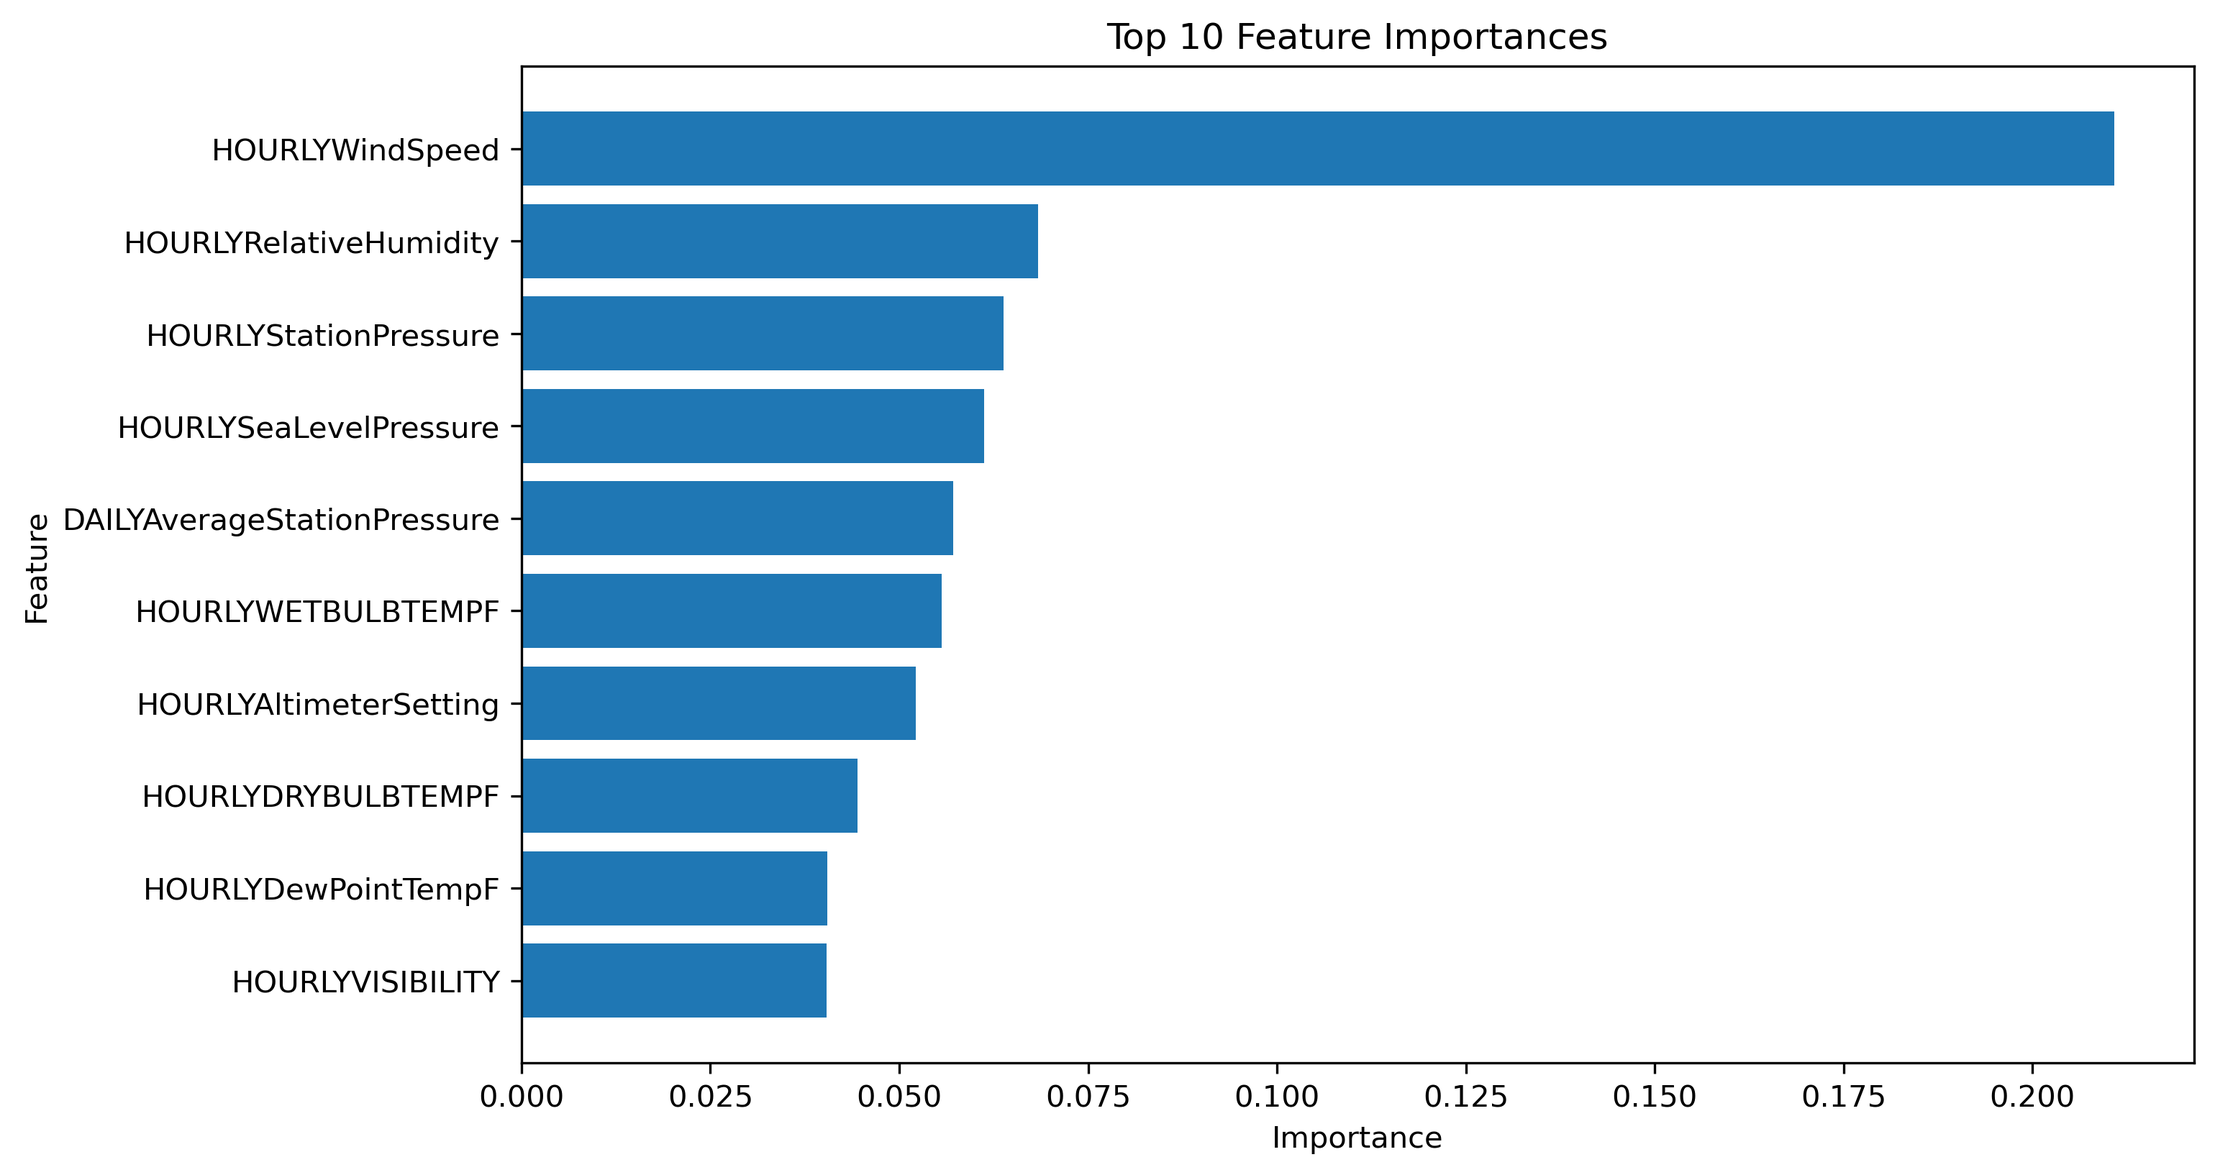
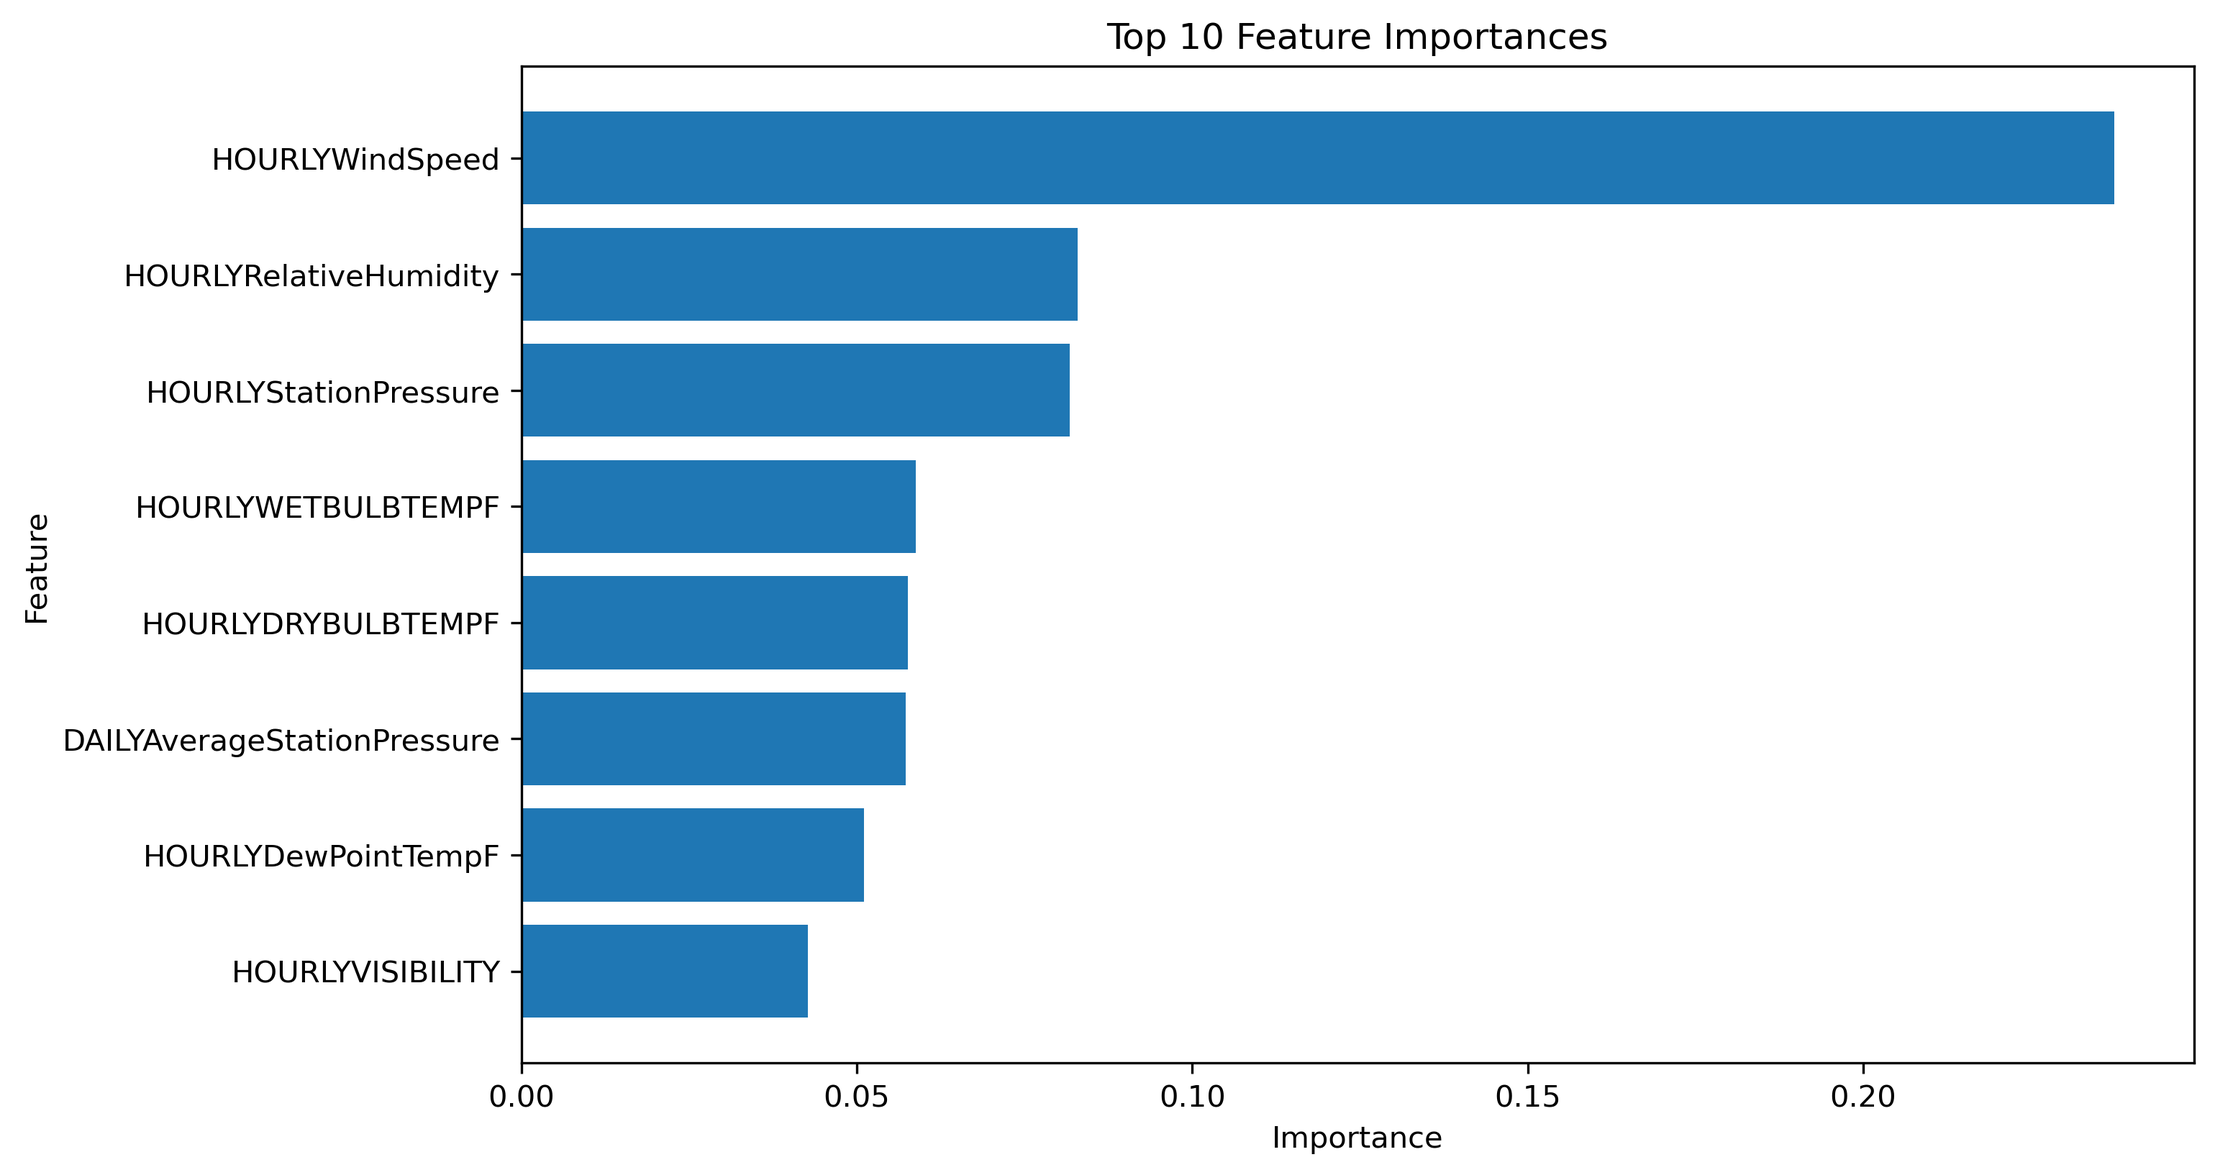
ML and App updates

diff --git a/3_Machine_Learning/1_regression_model.py b/3_Machine_Learning/1_regression_model.py
@@ -16,6 +16,9 @@ import matplotlib.pyplot as plt
 from math import sqrt
 import os
 import s3fs
+import joblib
+
+
 
 
 
@@ -68,7 +71,7 @@ file_path = 'Avions-Retard-et-Meteo/1_Data_cleaning/plane_weather_for_ML.csv'
 df = pd.read_csv(file_path)"""
 
 # Select features and target
-exclude_columns = ['DEP_DELAY', 'ARR_DELAY', 'CARRIER_DELAY', 'WEATHER_DELAY', 'CANCELLED'] # We can't use these variables in our model because they depend on whether or not the plane has been late or not
+exclude_columns = ['DEP_DELAY', 'ARR_DELAY', 'CARRIER_DELAY', 'WEATHER_DELAY', 'CANCELLED', 'HOURLYSeaLevelPressure', 'HOURLYAltimeterSetting']  # We can't use these variables in our model because they depend on whether or not the plane has been late or not, and we saw in the descriptive stats that the pressure at the station and at the sea level and the altimeter setting are really correlated
 feature_columns = [col for col in df.columns if col not in exclude_columns]
 target_column = 'DEP_DELAY' # The variable we want to predict
 
@@ -96,7 +99,7 @@ print(f"Numbre of principle components : {X_pca.shape[1]}")
 
 
 # Linear Regression
-lin_reg = LinearRegression()
+lin_reg = LinearRegression(fit_intercept=True)
 y_pred_lin = cross_val_predict(lin_reg, X_pca, y, cv=5)  # 5-fold cross-validation
 
 # Random Forest
@@ -143,8 +146,8 @@ feature_importance_df = pd.DataFrame({
     'Importance': importances
 }).sort_values(by='Importance', ascending=False)
 
-# Then we select the most important features (example here the 10 most)
-top_features = feature_importance_df.head(10)['Feature']
+# Then we select the most important features (example here the 8 most)
+top_features = feature_importance_df.head(8)['Feature']
 X_selected = X[top_features]
 
 
@@ -152,7 +155,7 @@ X_selected = X[top_features]
 output_dir = 'Avions-Retard-et-Meteo/3_Machine_Learning/pictures'
 os.makedirs(output_dir, exist_ok=True)
 plt.figure(figsize=(10, 6))
-plt.barh(feature_importance_df['Feature'].head(10), feature_importance_df['Importance'].head(10))
+plt.barh(feature_importance_df['Feature'].head(8), feature_importance_df['Importance'].head(8))
 plt.xlabel("Importance")
 plt.ylabel("Feature")
 plt.title("Top 10 Feature Importances")
@@ -204,16 +207,24 @@ results_df_FI = pd.DataFrame(results)
 print("\nComparison of Model Performance (Feature Importance):")
 print(results_df_FI)
 
-# Linear Regression performs better with Feature Importance (MAE: 26.72 vs 34.95, RMSE: 74.06 vs 81.80, R^2: 0.006 vs -0.212)
-# Random Forest improves slightly with Feature Importance (MAE: 30.49 vs 40.73, RMSE: 85.26 vs 90.50, R^2: -0.317 vs -0.484)
-# XGBoost shows better results with Feature Importance but still underperforms (MAE: 33.35 vs 55.20, RMSE: 94.35 vs 136.75, R^2: -0.613 vs -2.387)
-# Feature Importance provides more relevant features for all models compared to PCA
+"""
+Linear Regression performs better with Feature Importance (MAE: 26.28 vs 34.90, RMSE: 74.72 vs 81.80, R^2: -0.011 vs -0.212)
+Random Forest improves slightly with Feature Importance (MAE: 31.65 vs 52.45, RMSE: 88.32 vs 106.15, R^2: -0.413 vs -1.041)
+XGBoost shows better results with Feature Importance but still underperforms (MAE: 32.88 vs 91.04, RMSE: 92.90 vs 211.86, R^2: -0.563 vs -7.131)
+Feature Importance provides more relevant features for all models compared to PCA.
 
 
-# Using Feature Importance, model performance remains limited, with all models showing weak predictive power.
-# Linear Regression has a modest MAE (26.72) and RMSE (74.06) but offers almost no explanatory strength (R^2: 0.006).
-# Random Forest improves slightly (MAE: 30.49, RMSE: 85.26), but its R^2 (-0.317) indicates poor generalization.
-# XGBoost, despite reducing MAE (33.35), still struggles with high RMSE (94.35) and very low R^2 (-0.613).
+Using Feature Importance, model performance remains limited, with all models showing weak predictive power.
+Linear Regression:
+With Feature Importance, Linear Regression achieves a MAE of 26.28 and an RMSE of 74.72, both better than the PCA approach (MAE: 34.90, RMSE: 81.80). However, the R² remains slightly negative (-0.011), indicating that the model explains almost none of the variance in the data. Despite this, it still provides the most coherent predictions among all tested models.
+
+Random Forest:
+Random Forest improves with Feature Importance (MAE: 31.65, RMSE: 88.32) compared to PCA (MAE: 52.45, RMSE: 106.15). However, its R² score of -0.413 suggests poor generalization. While slightly better than PCA, Random Forest predictions are less consistent compared to Linear Regression.
+
+XGBoost:
+XGBoost shows the highest error with Feature Importance (MAE: 32.88, RMSE: 92.90) and the worst R² score (-0.563). While marginally better than the PCA-based approach (MAE: 91.04, RMSE: 211.86), its performance remains weak overall.
+"""
+
 # Overall, while Feature Importance improves focus on relevant features, the results suggest that the models lack strong predictive and explanatory power.
 
 
@@ -221,14 +232,48 @@ print(results_df_FI)
 
 # The feature importance plot provides insights into the factors contributing to departure delays.
 # HOURLYWindSpeed stands out as the most important feature, aligning with expectations since wind speed directly impacts flight schedules.
-# Other weather-related variables like HOURLYRelativeHumidity, HOURLYStationPressure, and HOURLYSeaLevelPressure also have notable contributions.
+# Other weather-related variables like HOURLYRelativeHumidity, HOURLYStationPressure also have notable contributions.
 # Interestingly, DAILYAverageStationPressure and HOURLYWETBULBTEMPF indicate that both daily and hourly weather metrics are relevant.
 # Even though our predictive power is limited, the feature importance highlights key weather variables, offering valuable insights into the relationship between weather conditions and delays.
-
 
 # The feature importance highlights key weather variables like wind speed and humidity, and the
 # minimal delays caused by weather reflect the technological advancements and robustness of modern 
 # aircraft in handling adverse conditions.
 
-# Although the explanatory power (R²) is nearly negligible, Linear Regression offers the lowest MAE and RMSE among all models. This indicates 
-# it performs slightly better in predicting departure delays, even if the predictions are not strong.
+"""
+Key Observations:
+Feature Importance provides better results across all models compared to PCA by focusing on relevant features, reducing noise, and ensuring better interpretability.
+Linear Regression, while lacking strong explanatory power (as shown by the near-zero R²), offers the lowest MAE and RMSE, making it the best choice among the tested models for this dataset.
+We are aware of the limited predictive power of our models due to the weak R² values. However, Linear Regression still generates the most coherent and realistic predictions, particularly when Feature Importance is used.
+Experimentation Process and Rationale:
+Initial Setup:
+We initially included all available variables in our models, leading to overfitting and unrealistic predictions, such as planes always being very early or significantly delayed.
+
+Feature Reduction:
+Through successive adjustments and analysis, we reduced the features to the 8 most relevant variables based on Feature Importance.
+
+Pressure Variables:
+Initially, we included both HOURLYStationPressure and HOURLYSeaLevelPressure, which were highly correlated. This caused the model to predict unrealistic results, with planes often being far ahead of schedule. Removing one of the pressure variables improved prediction consistency.
+
+Final Choice:
+Linear Regression with Feature Importance, using 8 carefully selected features, achieved the best balance between low errors (MAE and RMSE) and realistic predictions.
+
+Conclusion:
+Although the predictive power of our models remains weak due to the low R² values (indicating that the models explain little variance in departure delays), the Linear Regression model with Feature Importance provides the most consistent and interpretable predictions. This is the result of iterative experimentation and careful adjustment of features, ensuring predictions align with realistic expectations while minimizing overfitting.
+"""
+
+# Entraîner le modèle sur les données sélectionnées
+lin_reg.fit(X_selected, y)  # Ajouter cette ligne ici
+
+# Sauvegarder le modèle entraîné
+model_path = 'Avions-Retard-et-Meteo/3_Machine_Learning/linear_regression_model.pkl'
+joblib.dump(lin_reg, model_path)
+
+
+# Afficher les coefficients
+coefficients = lin_reg.coef_
+features = X_selected.columns  # Les noms des colonnes sélectionnées
+
+# Afficher les coefficients avec leurs noms
+for feature, coef in zip(features, coefficients):
+    print(f"{feature}: {coef}")

diff --git a/App/app.py b/App/app.py
@@ -1,44 +1,50 @@
 import streamlit as st
+import joblib
+import os
 from flight_api import get_flight_info
-from weather_api import fetch_weather_data  # Import de la fonction météo
+from weather_api import fetch_weather_data
 from config import API_KEY as api_key
+import pandas as pd
 
-# Entrées utilisateur
-flight_number = st.text_input("Numéro de vol (ex. DL1708):")
-flight_date = st.date_input("Date du vol:")
+# Load the linear regression model
+current_dir = os.path.dirname(os.path.abspath(__file__))  # Directory where app.py is located
+model_path = os.path.join(current_dir, "..", "3_Machine_Learning", "linear_regression_model.pkl")
+lin_reg = joblib.load(model_path)
 
-# Bouton de recherche
-search_button = st.button("Rechercher")
+# User input
+flight_number = st.text_input("Flight number (e.g., DL1708):")
+flight_date = st.date_input("Flight date:")
 
-# Si le bouton est cliqué et que les entrées sont données
+# Search button
+search_button = st.button("Search")
+
+# If the search button is clicked and inputs are provided
 if search_button and flight_number and flight_date:
-    # Récupérer les informations sur le vol
+    # Retrieve flight information
     flight_data = get_flight_info(flight_number, flight_date, api_key)
     
     if isinstance(flight_data, list) and flight_data:
         for flight in flight_data:
-            st.write(f"Vol: {flight['flight_number']}")
-            st.write(f"Statut: {flight['status']}")
-            st.write(f"Aéroport de départ: {flight['departure_airport']}")
-            st.write(f"Heure de départ: {flight['departure_time']}")
-            st.write(f"Aéroport d'arrivée: {flight['arrival_airport']}")
-            st.write(f"Heure d'arrivée: {flight['arrival_time']}")
-            st.write(f"Compagnie aérienne: {flight['airline']}")
-            st.write(f"Modèle d'avion: {flight['aircraft_model']}")
+            st.markdown(f"### {flight['airline']} {flight['flight_number']}")
+            st.write(f"**Status:** {flight['status']}")
+            st.write(f"**Departure airport:** {flight['departure_airport']}")
+            st.write(f"**Departure time:** {pd.to_datetime(flight['departure_time']).strftime('%H:%M, %A %d %B %Y')} (local time)")
+            st.write(f"**Arrival airport:** {flight['arrival_airport']}")
+            st.write(f"**Arrival time:** {pd.to_datetime(flight['arrival_time']).strftime('%H:%M, %A %d %B %Y')} (local time)")
+            st.write(f"**Aircraft model:** {flight['aircraft_model']}")
             if flight['aircraft_image']:
-                st.image(flight['aircraft_image'], caption=f"Image de l'avion ({flight['aircraft_model']})", use_container_width=True)
+                st.image(flight['aircraft_image'], caption=f"Aircraft ({flight['aircraft_model']})", use_container_width=True)
 
-            # Récupérer la latitude et la longitude de l'aéroport de départ
+            # Retrieve departure airport coordinates
             departure_airport_coords = {
                 'lat': flight['departure_airport_lat'],
                 'lon': flight['departure_airport_lon']
             }
 
-            print(departure_airport_coords)
             if departure_airport_coords['lat'] is None or departure_airport_coords['lon'] is None:
-                st.write("Les coordonnées de l'aéroport de départ ne sont pas disponibles.")
-            else:                
-                # Construire l'URL de l'API météo
+                st.write("Departure airport coordinates are not available.")
+            else:
+                # Construct the weather API URL
                 weather_api_url = (
                     f"https://api.open-meteo.com/v1/forecast?latitude={departure_airport_coords['lat']}"
                     f"&longitude={departure_airport_coords['lon']}"
@@ -46,32 +52,31 @@ if search_button and flight_number and flight_date:
                     f"surface_pressure,visibility,wind_speed_10m"
                     f"&wind_speed_unit=mph&timezone=America/New_York&start_date={flight_date}"
                     f"&end_date={flight_date}"
-                ) 
+                )
 
-
-                # Récupérer les données météo
+                # Fetch weather data
                 weather_data = fetch_weather_data(weather_api_url)
 
                 if weather_data is not None:
-                    # Extraire l'heure du vol
+                    # Extract flight hour
                     departure_time = flight.get('departure_time', 'Unknown')
-                    print(departure_time)
+
                     if departure_time != 'Unknown':
                         hour = int(departure_time.split(' ')[1].split(':')[0])
 
-                        # Filtrer les données pour l'heure du vol
+                        # Filter weather data for the flight hour
                         weather_at_departure = weather_data.iloc[hour]
 
                         if not weather_at_departure.empty:
-                            st.write("**Conditions météo au départ :**")
-                            st.write(f"Température sèche (°F) : {weather_at_departure['HOURLYDRYBULBTEMPF']}")
-                            st.write(f"Température du bulbe humide (°F) : {weather_at_departure['HOURLYWETBULBTEMPF']}")
-                            st.write(f"Humidité relative (%) : {weather_at_departure['HOURLYRelativeHumidity']}")
-                            st.write(f"Visibilité (miles) : {weather_at_departure['HOURLYVISIBILITY']}")
-                            st.write(f"Pression au niveau de la mer (inHg) : {weather_at_departure['HOURLYSeaLevelPressure']}")
+                            st.markdown("### Weather Conditions at Departure")
+                            st.write(f"- **Dry-bulb temperature:** {weather_at_departure['HOURLYDRYBULBTEMPF']} °F")
+                            st.write(f"- **Wet-bulb temperature:** {weather_at_departure['HOURLYWETBULBTEMPF']} °F")
+                            st.write(f"- **Relative humidity:** {weather_at_departure['HOURLYRelativeHumidity']} %")
+                            st.write(f"- **Visibility:** {weather_at_departure['HOURLYVISIBILITY']} miles")
+                            st.write(f"- **Estimated delay:** {lin_reg.predict(weather_at_departure.to_frame().T)[0]:.2f} minutes")
                         else:
-                            st.write("**Conditions météo au départ : Données indisponibles**")
+                            st.markdown("### Weather Conditions at Departure: Data Unavailable")
                 else:
-                    st.write("Erreur lors de la récupération des données météo.")
+                    st.write("Error retrieving weather data.")
     else:
-        st.write(flight_data)  # Si une erreur ou aucun vol trouvé
+        st.write(flight_data)  # If an error occurred or no flight was found

diff --git a/App/weather_api.py b/App/weather_api.py
@@ -3,10 +3,10 @@ Variables that we want to use     Description in the glossary                   
 HOURLYWindSpeed                   Speed of the wind at the time of observation given in miles per hour (mph).                               Hourly Wind Speed (10 m)
 HOURLYRelativeHumidity            This is the relative humidity given to the nearest whole percentage.                                      Hourly Relative Humidity (2 m)
 HOURLYStationPressure             Atmospheric pressure observed at the station  (in inches of Mercury)                                      Hourly Surface Pressure
-HOURLYSeaLevelPressure            Sea level pressure given in inches of Mercury (in Hg).                                                    Hourly Sealevel Pressure
+XHOURLYSeaLevelPressure            Sea level pressure given in inches of Mercury (in Hg).                                                    Hourly Sealevel Pressure
 DAILYAverageStationPressure       Daily average station pressure (in inches of mercury, to hundredths)                                      Not available, we will take the mean of Hourly Surface Pressure
 HOURLYWETBULBTEMPF                This is the wet-bulb temperature. It is given here in whole degrees Fahrenheit                            Calculated with Stull Equation and Temp and DewPoint
-HOURLYAltimeterSetting            Atm pressure reduced to sea level using temp profile of the “standard” atmosphere (inches of Mercury)     Calculated with altitude (3m) and Station Pressure
+XHOURLYAltimeterSetting            Atm pressure reduced to sea level using temp profile of the “standard” atmosphere (inches of Mercury)     Calculated with altitude (3m) and Station Pressure
 HOURLYDRYBULBTEMPC                This is the dry-bulb temperature and is commonly used as the standard air temperature reported (in C°)    Temperature (2 m)
 HOURLYDewPointTempF               This is the dew point temperature. It is given here in whole degrees Fahrenheit.                          Dewpoint (2 m)
 HOURLYVISIBILITY                  The horizontal distance an object can be seen and identified given in whole miles.                        Visibility
@@ -22,7 +22,7 @@ from math import atan, sqrt
 def fetch_weather_data(api_url):
     # Fetch data from the weather API
     response = requests.get(api_url)
-    print(response)
+
     if response.status_code == 200:
         data = response.json()
         hourly_data = data.get('hourly', {})
@@ -85,11 +85,9 @@ def fetch_weather_data(api_url):
             'HOURLYWindSpeed',
             'HOURLYRelativeHumidity',
             'HOURLYStationPressure',
-            'HOURLYSeaLevelPressure',
-            'DAILYAverageStationPressure',
             'HOURLYWETBULBTEMPF',
-            'HOURLYAltimeterSetting',
             'HOURLYDRYBULBTEMPF',
+            'DAILYAverageStationPressure',
             'HOURLYDewPointTempF',
             'HOURLYVISIBILITY'
         ]
